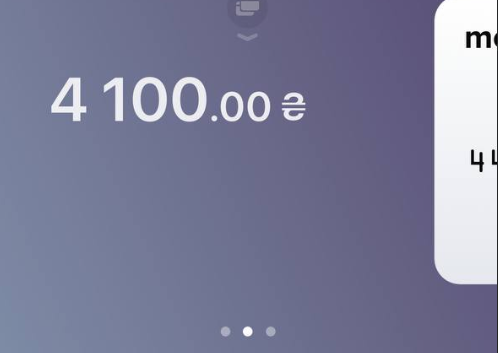
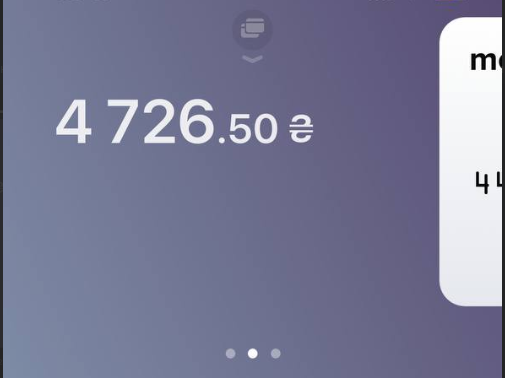
Change project

diff --git a/index.html b/index.html
@@ -76,7 +76,7 @@
         <a class="item" href="/?result=true" target="_blank">
           <div class="text-menu text-result">
             <span
-              >Всього зібрано: 14 266.20₴ (Результат оновлюється 21:00)</span
+              >Всього зібрано: 19 808.08₴ (Результат оновлюється 21:00)</span
             >
           </div>
         </a>
@@ -92,7 +92,7 @@
     ></video>
 
     <div class="cards-result" id="cards-result">
-      <h1>Всього зібрано: 14 266.20₴</h1>
+      <h1>Всього зібрано: 19 808.08₴</h1>
       <div class="card">
         <img src="./image/result/MONO.PNG" alt="Image not found" />
         <img src="./image/result/PRIVAT.PNG" alt="Image not found" />

diff --git a/js/results.js b/js/results.js
@@ -10,6 +10,4 @@ if (resultParam === "true") {
   logo.style.display = "none";
 } else {
   cardsResult.style.display = "none";
-  list.style.display = "block";
-  logo.style.display = "block";
 }

diff --git a/js/video.js b/js/video.js
@@ -13,6 +13,4 @@ if (videoParam === "true") {
   videoPlayer.play();
 } else {
   videoPlayer.style.display = "none";
-  list.style.display = "block";
-  logo.style.display = "block";
 }
